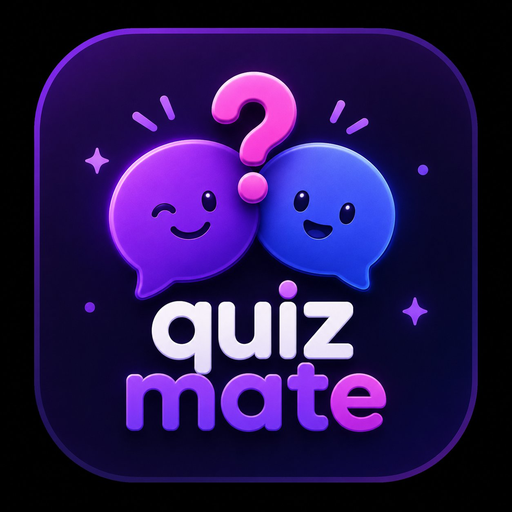
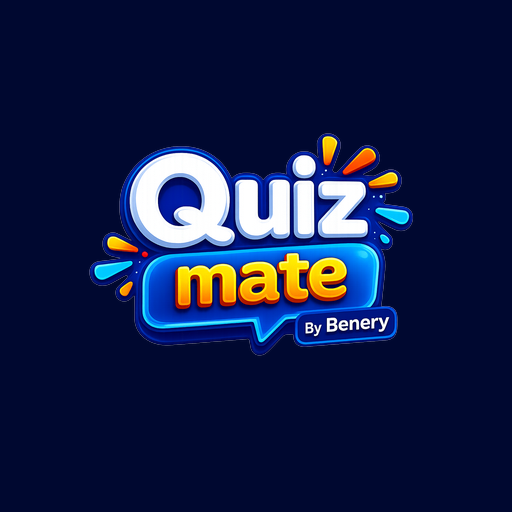
Add files via upload

diff --git a/index.html b/index.html
@@ -210,7 +210,7 @@ details[open]>summary::before{content:'▼ ';font-size:10px;}
 </style>
 </head>
 <body>
-<div id="app"><div id="app">
+<div id="app">
 
 <!-- GLOW ORBS -->
 <div class="glow-orb glow-orb-1"></div>